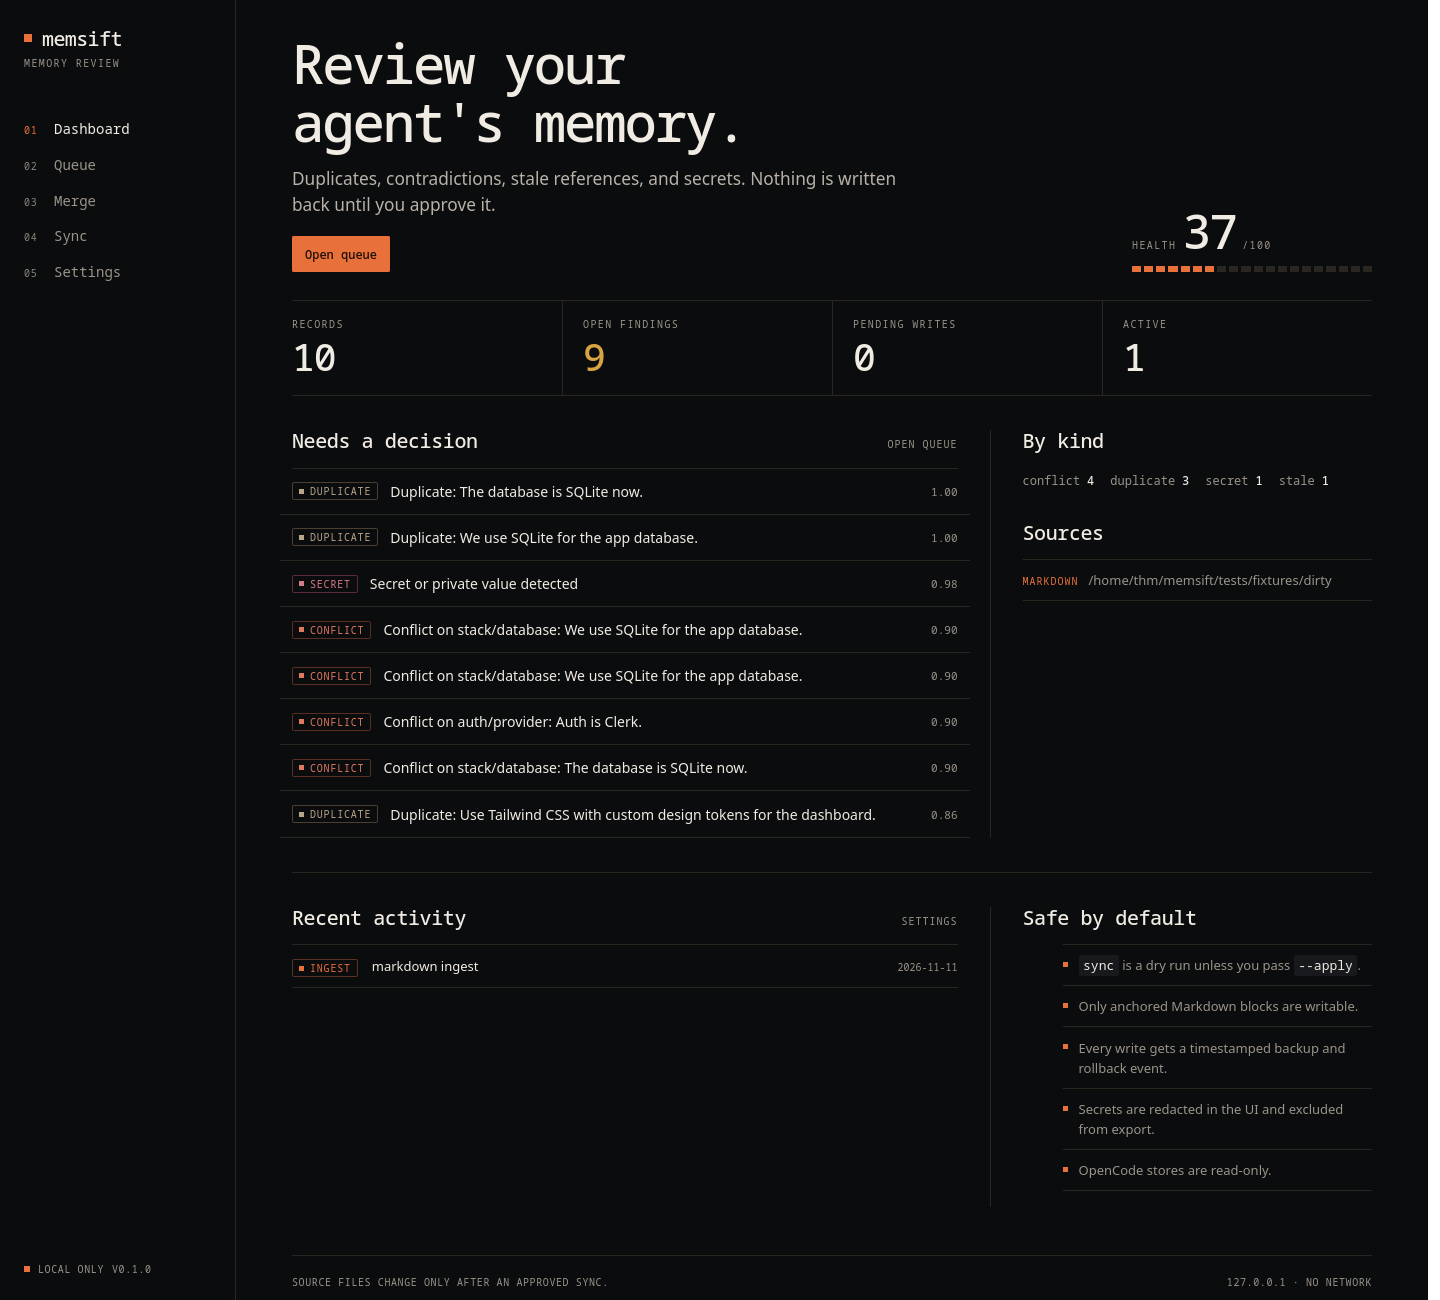
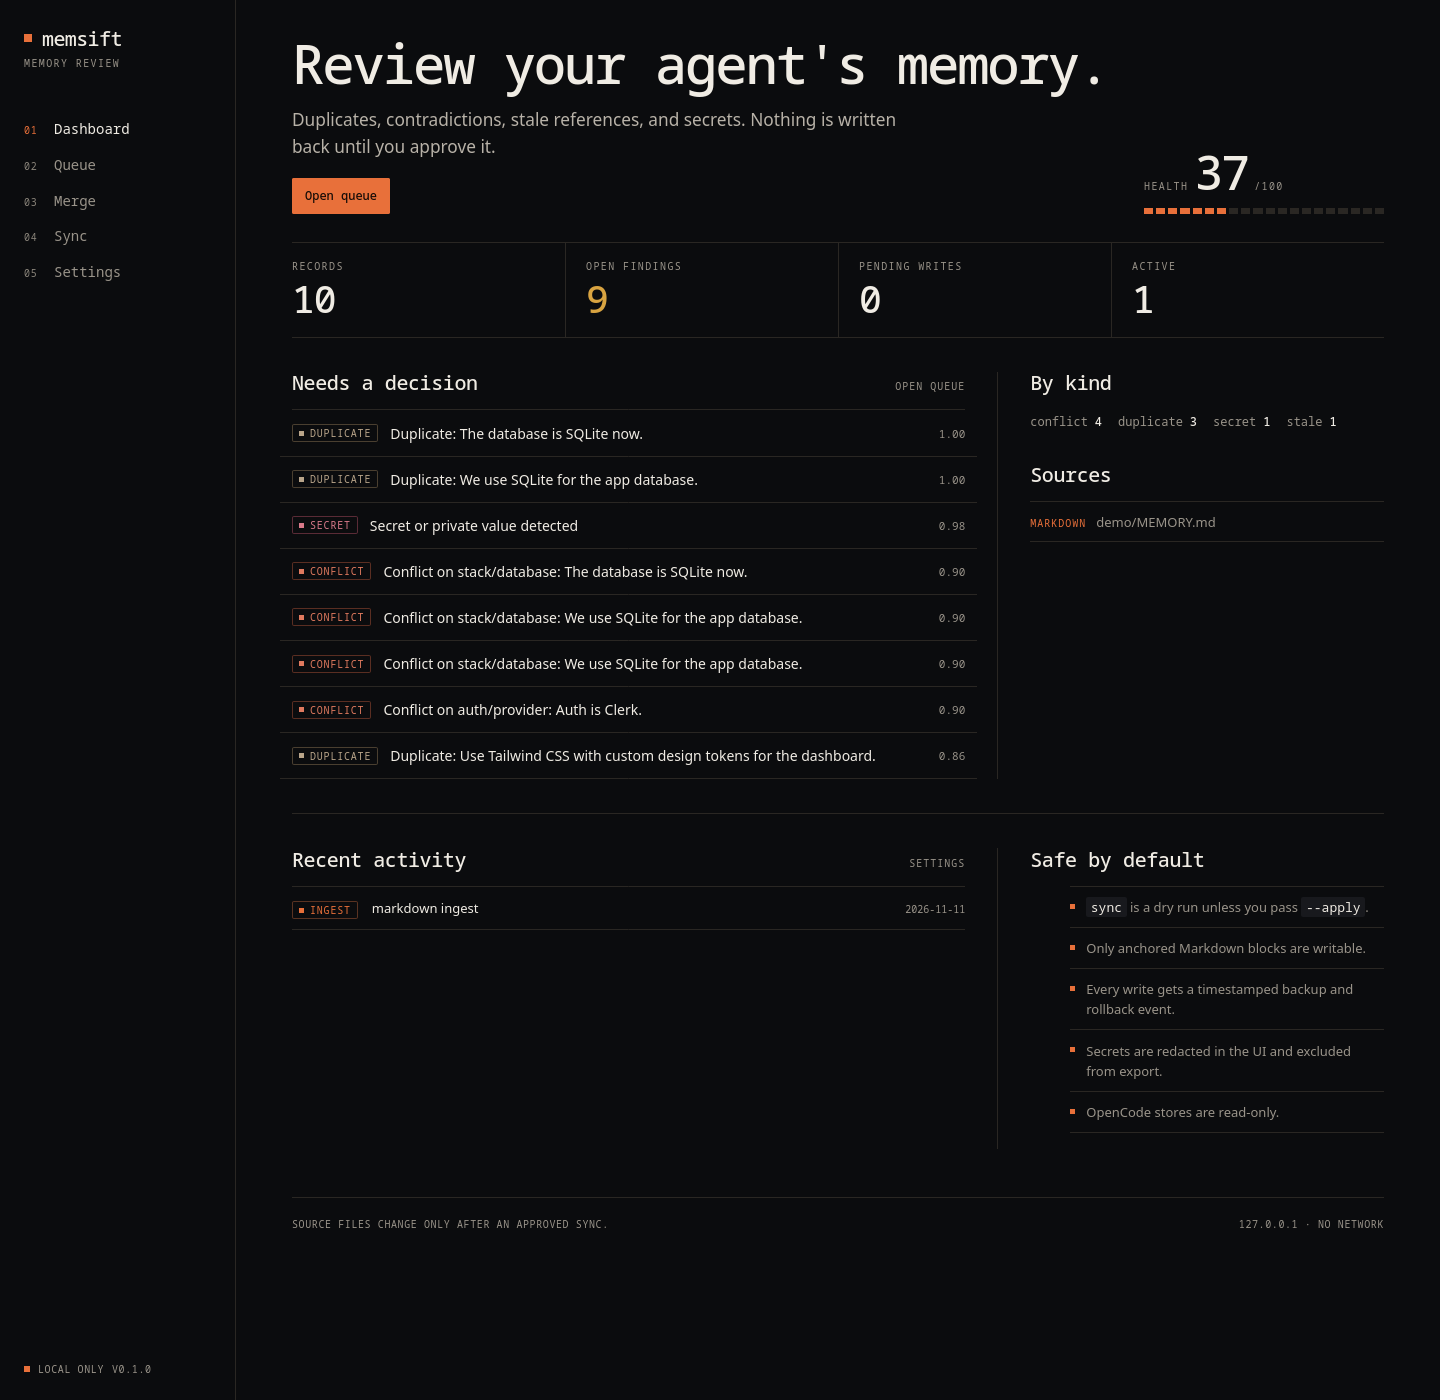
Refresh the README dashboard screenshot

diff --git a/docs/PLAN.md b/docs/PLAN.md
@@ -129,4 +129,8 @@ Status: v0.1.0 vertical slice complete and verified on 2026-11-10.
 - [x] Simplify repository presentation, ignore local artifacts, and organize internal docs.
 - [x] Verify lint, 110 tests (89.66% coverage), sdist/wheel, and installed web assets.
 - [x] Independent review: reject nested anchors inside memory fences; regression test added.
-- [ ] Publish the reviewed commit to GitHub: local git has no DNS access; the connected integration rejects writes with HTTP 403.
+- [x] Publish the reviewed commit to GitHub (3917a5d, master).
+
+## Follow-up — Current dashboard screenshot
+
+- [x] Refresh the README screenshot from the current UI in Firefox at 1440 × 1400 using synthetic demo data.
